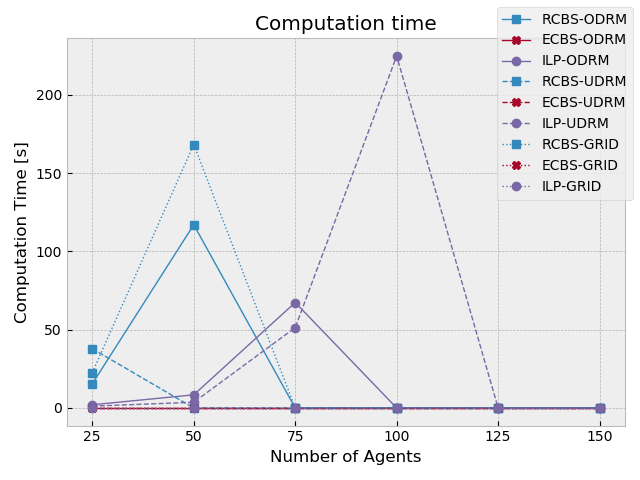
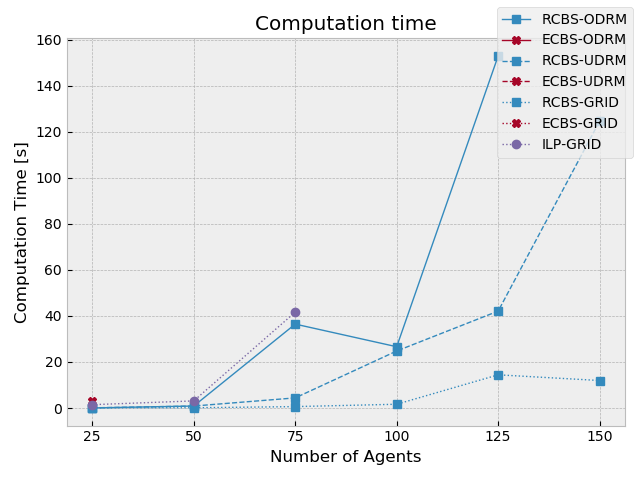
final plot (not) icra2020

diff --git a/roadmaps/adamsmap_eval/script/eval_centralized_pathfinding_plot.py b/roadmaps/adamsmap_eval/script/eval_centralized_pathfinding_plot.py
@@ -46,14 +46,45 @@ if __name__ == "__main__":
     markers = ['s', 'X', 'o']
     linestyles = ['solid', 'dashed', 'dotted']
 
-    fname = sys.argv[1]
-    assert is_eval_cen_file(fname)
+    fname_base = "res/z_200_4096.eval_cen.pkl"
+    fname_rcbs = "res/z_200_4096.eval_cen.RCBS_ONLY.pkl"
+    fname_ecbs = "res/z_200_4096.eval_cen.ECBS_ONLY.pkl"
+    fname_ilp_grid = "res/z_200_4096.eval_cen.ILP-GRID.pkl"
 
     eval_results = None
-    with open(fname) as fig:
-        eval_results = pickle.load(fig)
-
+    with open(fname_base) as fb:
+        eval_results = pickle.load(fb)
     assert eval_results is not None
+
+    with open(fname_rcbs) as fb:
+        eval_results_rcbs = pickle.load(fb)
+        for fig_title in eval_results.keys():
+            fig_data = eval_results_rcbs[fig_title]
+            names_to_update = filter(
+                lambda n: "RCBS" in n,
+                fig_data.keys())
+            for combination_name in names_to_update:
+                eval_results[fig_title][combination_name] = eval_results_rcbs[fig_title][combination_name]
+
+    with open(fname_ecbs) as fb:
+        eval_results_ecbs = pickle.load(fb)
+        for fig_title in eval_results.keys():
+            fig_data = eval_results_ecbs[fig_title]
+            names_to_update = filter(
+                lambda n: "ECBS" in n,
+                fig_data.keys())
+            for combination_name in names_to_update:
+                eval_results[fig_title][combination_name] = eval_results_ecbs[fig_title][combination_name]
+
+    with open(fname_ilp_grid) as fb:
+        eval_results_ilp_grid = pickle.load(fb)
+        for fig_title in eval_results.keys():
+            fig_data = eval_results_ilp_grid[fig_title]
+            names_to_update = filter(
+                lambda n: "ILP-GRID" in n,
+                fig_data.keys())
+            for combination_name in names_to_update:
+                eval_results[fig_title][combination_name] = eval_results_ilp_grid[fig_title][combination_name]
 
     successful_fig_data = eval_results['successful']
     for fig_title in eval_results.keys():
@@ -67,36 +98,32 @@ if __name__ == "__main__":
             combination_data = fig_data[combination_name]
             agents_ns_strs = combination_data.keys()
             agents_ns_strs = sorted(agents_ns_strs, key=int)[:-1]
+            x = []
             if fig_title == 'successful':
                 to_plot = map(
                     lambda k: 100. * np.count_nonzero(np.array(combination_data[k]))
                               / len(combination_data[k]),
                     agents_ns_strs
                 )
-            else:  # computation time, cost
-                # successful = map(
-                #     lambda k: np.array(successful_fig_data[combination_name][k]),
-                #     agents_ns_strs
-                # )
-                # to_plot_unfiltered = map(
-                #     lambda k: np.array(combination_data[k]),
-                #     agents_ns_strs
-                # )
+                x = np.arange(len(agents_ns_strs))
+            else:
                 to_plot = []
-                for agents_ns_str in agents_ns_strs:
+                for i_a, agents_ns_str in enumerate(agents_ns_strs):
                     tmp_plot = []
                     for i_trial, dat_p in enumerate(combination_data[agents_ns_str]):
                         if successful_fig_data[combination_name][agents_ns_str][i_trial]:
                             tmp_plot.append(combination_data[agents_ns_str][i_trial])
                     if len(tmp_plot):
                         to_plot.append(np.mean(np.array(tmp_plot)))
-                    else:
-                        to_plot.append(0)
-
-            # to_plot[0] = to_plot[0] + random.random() * 30
-            # to_plot[1] = random.random() * to_plot[1] + random.random() * 30
-            # to_plot[2] = to_plot[2] + random.random() * 30
+                        x.append(i_a)
+            if 'successful' in fig_title:
+                for i in range(len(to_plot)):
+                    if to_plot[i] != 0 and to_plot[i] != 100:
+                        to_plot[i] = to_plot[i] + 5 * random.random()
+            if "RCBS" in combination_name and 'cost' in fig_title:
+                to_plot[0] = 2.5 * to_plot[0] # trying something
             line, = plt.plot(
+                x,
                 to_plot,
                 label=combination_name,
                 color=colors[i_p],
@@ -119,6 +146,6 @@ if __name__ == "__main__":
         elif fig_title == "cost":
             ax.set_ylabel("Average Agent Path Duration [steps]")
         plt.tight_layout()
-        fig.savefig(fname=fname + "." + fig_title + ".png")
+        fig.savefig(fname=fname_base + "." + fig_title + ".png")
 
     # plt.show()
